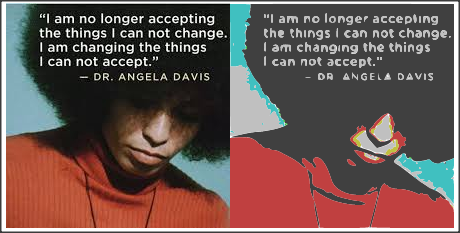
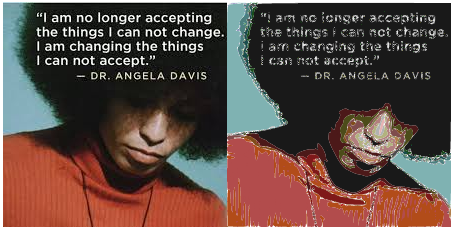
v.1.0.0

diff --git a/build/img2svg.min.js b/build/img2svg.min.js
@@ -2,9 +2,9 @@
 *
 *   img2svg.js
 *   @version: 1.0.0
-*   @built on 2023-09-01 08:33:59
+*   @built on 2023-09-01 09:31:47
 *
 *   Vectorize image data based on potrace algorithm with color
 *   https://github.com/foo123/img2svg.js
 *
-**/!function(t,r,n){"use strict";"object"==typeof module&&module.exports?(module.$deps=module.$deps||{})&&(module.exports=module.$deps[r]=n.call(t)):"function"==typeof define&&define.amd&&"function"==typeof require&&"function"==typeof require.specified&&require.specified(r)?define(r,["module"],function(r){return n.moduleUri=r.uri,n.call(t)}):r in t||(t[r]=n.call(t)||1)&&"function"==typeof define&&define.amd&&define(function(){return t[r]})}("undefined"!=typeof self?self:this,"img2svg",function(){"use strict";var q=Math,Y="undefined"!=typeof Uint8Array?Uint8Array:Array;"undefined"==typeof Float32Array&&Array;function r(r,t){var n,e,a,o,i,y,x,u,f,c,l,s,h,p=k(null==(t=t||{}).depth?2:t.depth,1,256),d=k(null==t.depthR?p:t.depthR,1,256),v=k(null==t.depthG?p:t.depthG,1,256),w=k(null==t.depthB?p:t.depthB,1,256),m=(k(null==t.depthHue?12:t.depthHue,1,360),r.width),g=r.height,A=r.data,b=m*g,O=A.length,F="",R=q.floor(256/d),C=q.floor(256/v),U=q.floor(256/w),z=q.floor(R/2),E=q.floor(C/2),X=q.floor(U/2);if(t.grayscale)for(i=e=0;e<v;++e,i+=C){for(h=new Y(b),l=c=s=0;c<O;c+=4,++l)0<A[c+3]&&i<=(u=A[c+1])&&u<i+C?(++s,h[l]=255):h[l]=0;0<s&&(t.color=V(i+E,i+E,i+E),t.partial=!0,F+=j.process(h,m,g,t)),h=null}else for(o=n=0;n<w;++n,o+=U)for(i=e=0;e<v;++e,i+=C)for(y=a=0;a<d;++a,y+=R){for(h=new Y(b),l=c=s=0;c<O;c+=4,++l)0<A[c+3]&&(x=A[c],u=A[c+1],f=A[c+2],y<=x)&&x<y+R&&i<=u&&u<i+C&&o<=f&&f<o+U?(++s,h[l]=255):h[l]=0;0<s&&(t.color=V(y+z,i+E,o+X),t.partial=!0,F+=j.process(h,m,g,t)),h=null}return'<svg version="1.1" xmlns="http://www.w3.org/2000/svg" width="'+m+'" height="'+g+'" viewBox="0 0 '+m+" "+g+'">'+F+"</svg>"}function k(r,t,n){return q.min(q.max(r,t),n)}function V(r,t,n){r=k(q.round(r),0,255).toString(16),t=k(q.round(t),0,255).toString(16),n=k(q.round(n),0,255).toString(16);return"#"+(r.length<2?"0":"")+r+(t.length<2?"0":"")+t+(n.length<2?"0":"")+n}r.VERSION="1.0.0";t={VERSION:"1.16"},e="prototype",U=Math,i="undefined"!=typeof Uint8Array?Uint8Array:Array,w={turnpolicy:"minority",turdsize:2,optcurve:!0,alphamax:1,opttolerance:.2},t.defaultOptions=function(){return m({},w)},t.process=function(r,t,n,e){m(e,w);for(var r=function(r,t){var n,e=r.copy(),a=new z(0,0),o=[];for(;a=function(r,t){var n=r.toIndex(t);for(;n<r.size&&0===r.data[n];)++n;return n<r.size&&r.index(n)}(e,a);)n=function(r,t,n,e){var a,o,i,y,x=new A,u=n.x,f=n.y,c=0,l=1;x.sign=r.at(n.x,n.y)?"+":"-";for(;;){if(x.pt.push(new z(u,f)),u>x.maxX&&(x.maxX=u),u<x.minX&&(x.minX=u),f>x.maxY&&(x.maxY=f),f<x.minY&&(x.minY=f),++x.len,u+=c,f+=l,x.area-=u*l,u===n.x&&f===n.y)break;o=t.at(u+(c-l-1)/2,f+(l+c-1)/2),i=t.at(u+(c+l-1)/2,f+(l-c-1)/2),o&&!i?(y="majority"===e.turnpolicy||"minority"===e.turnpolicy?function(r,t,n){var e,a,o;for(e=2;e<5;++e){for(o=0,a=1-e;a<=e-1;++a)o=(o=(o=(o+=r.at(t+a,n+e-1)?1:-1)+(r.at(t+e-1,n+a-1)?1:-1))+(r.at(t+a-1,n-e)?1:-1))+(r.at(t-e,n+a)?1:-1);if(0<o)return 1;if(o<0)return 0}return 0}(t,u,f):0,l="right"===e.turnpolicy||"black"===e.turnpolicy&&"+"===x.sign||"white"===e.turnpolicy&&"-"===x.sign||"majority"===e.turnpolicy&&y||"minority"===e.turnpolicy&&!y?(a=c,c=-l,a):(a=c,c=l,-a)):o?(a=c,c=-l,l=a):i||(a=c,c=l,l=-a)}return x}(r,e,a,t),function(r,t){var n,e,a,o,i,y,x=t.pt[0].y,u=t.len;for(y=1;y<u;++y)if(n=t.pt[y].x,(e=t.pt[y].y)!==x){for(o=x<e?x:e,a=t.maxX,i=n;i<a;++i)r.flip(i,o);x=e}}(e,n),n.area>t.turdsize&&o.push(n);return e=null,o}(new g(t,n,r),e),a=r,o=e,i=0,y=a.length;i<y;++i){var x=a[i];!function(r){r.x0=r.pt[0].x,r.y0=r.pt[0].y,r.sums=[];var t,n,e,a=r.sums;for(a.push(new b(0,0,0,0,0)),t=0;t<r.len;++t)n=r.pt[t].x-r.x0,e=r.pt[t].y-r.y0,a.push(new b(a[t].x+n,a[t].y+e,a[t].xy+n*e,a[t].x2+n*n,a[t].y2+e*e))}(x),!function(r){var t,n,e,a,o,i,y,x,u,f=r.len,c=r.pt,l=new Array(f),s=new Array(f),h=new Array(4),p=[new z,new z],d=new z,v=new z,w=new z,m=0;for(r.lon=new Array(f),e=f-1;0<=e;--e)c[e].x!=c[m].x&&c[e].y!=c[m].y&&(m=e+1),s[e]=m;for(e=f-1;0<=e;--e){for(h[0]=h[1]=h[2]=h[3]=0,t=(3+3*(c[S(e+1,f)].x-c[e].x)+(c[S(e+1,f)].y-c[e].y))/2,++h[t],p[0].x=0,p[0].y=0,p[1].x=0,p[1].y=0,m=s[e],o=e;;){if(n=0,t=(3+3*T(c[m].x-c[o].x)+T(c[m].y-c[o].y))/2,++h[t],h[0]&&h[1]&&h[2]&&h[3]){l[e]=o,n=1;break}if(d.x=c[m].x-c[e].x,d.y=c[m].y-c[e].y,F(p[0],d)<0||0<F(p[1],d))break;if(U.abs(d.x)<=1&&U.abs(d.y)<=1||(v.x=d.x+(0<=d.y&&(0<d.y||d.x<0)?1:-1),v.y=d.y+(d.x<=0&&(d.x<0||d.y<0)?1:-1),0<=F(p[0],v)&&(p[0].x=v.x,p[0].y=v.y),v.x=d.x+(d.y<=0&&(d.y<0||d.x<0)?1:-1),v.y=d.y+(0<=d.x&&(0<d.x||d.y<0)?1:-1),F(p[1],v)<=0&&(p[1].x=v.x,p[1].y=v.y)),!R(m=s[o=m],e,o))break}0===n&&(w.x=T(c[m].x-c[o].x),w.y=T(c[m].y-c[o].y),d.x=c[o].x-c[e].x,d.y=c[o].y-c[e].y,i=F(p[0],d),y=F(p[0],w),x=F(p[1],d),u=F(p[1],w),a=1e7,y<0&&(a=U.floor(i/-y)),0<u&&(a=U.min(a,U.floor(-x/u))),l[e]=S(o+a,f))}for(a=l[f-1],r.lon[f-1]=a,e=f-2;0<=e;--e)R(e+1,l[e],a)&&(a=l[e]),r.lon[e]=a;for(e=f-1;R(S(e+1,f),a,r.lon[e]);--e)r.lon[e]=a}(x),!function(r){var t,n,e,a,o,i,y,x=r.len,u=new Array(x+1),f=new Array(x+1),c=new Array(x),l=new Array(x+1),s=new Array(x+1),h=new Array(x+1);for(t=0;t<x;++t)(y=S(r.lon[S(t-1,x)]-1,x))==t&&(y=S(t+1,x)),c[t]=y<t?x:y;for(n=1,t=0;t<x;++t)for(;n<=c[t];)l[n]=t,n++;for(n=t=0;t<x;++n)s[n]=t,t=c[t];for(s[n]=x,t=x,n=e=n;0<n;--n)h[n]=t,t=l[t];for(h[0]=0,u[0]=0,n=1;n<=e;++n)for(t=h[n];t<=s[n];++t){for(i=-1,a=s[n-1];a>=l[t];--a)o=function(r,t,n){var e,a,o,i,y,x,u=r.len,f=r.pt,r=r.sums,c=0;u<=n&&(n-=u,c=1);c=0===c?(e=r[n+1].x-r[t].x,a=r[n+1].y-r[t].y,i=r[n+1].x2-r[t].x2,o=r[n+1].xy-r[t].xy,y=r[n+1].y2-r[t].y2,n+1-t):(e=r[n+1].x-r[t].x+r[u].x,a=r[n+1].y-r[t].y+r[u].y,i=r[n+1].x2-r[t].x2+r[u].x2,o=r[n+1].xy-r[t].xy+r[u].xy,y=r[n+1].y2-r[t].y2+r[u].y2,n+1-t+u);return r=(f[t].x+f[n].x)/2-f[0].x,u=(f[t].y+f[n].y)/2-f[0].y,x=f[n].x-f[t].x,n=-(f[n].y-f[t].y),f=n*n*((i-2*e*r)/c+r*r)+2*n*x*((o-e*u-a*r)/c+r*u)+x*x*((y-2*a*u)/c+u*u),U.sqrt(f)}(r,a,t)+u[a],(i<0||o<i)&&(f[t]=a,i=o);u[t]=i}for(r.m=e,r.po=new Array(e),t=x,n=e-1;0<t;--n)t=f[t],r.po[n]=t}(x),!function(r){var t,n,e,a,o,i,y,x,u,f,c,l,s,h,p,d=r.m,v=r.po,w=r.len,m=r.pt,g=r.x0,A=r.y0,b=new Array(d),O=new Array(d),F=new Array(d),R=new Array(3),C=new z;for(r.curve=new E(d),n=0;n<d;++n)e=v[S(n+1,d)],e=S(e-v[n],w)+v[n],b[n]=new z,O[n]=new z,!function(r,t,n,e,a){var o,i,y,x,u,f,c=r.len,r=r.sums,l=0;for(;c<=n;)n-=c,l+=1;for(;c<=t;)t-=c,--l;for(;n<0;)n+=c,--l;for(;t<0;)t+=c,l+=1;u=r[n+1].x-r[t].x+l*r[c].x,o=r[n+1].y-r[t].y+l*r[c].y,x=r[n+1].x2-r[t].x2+l*r[c].x2,y=r[n+1].xy-r[t].xy+l*r[c].xy,r=r[n+1].y2-r[t].y2+l*r[c].y2,i=n+1-t+l*c,e.x=u/i,e.y=o/i,e=(y-u*o/i)/i,u=((y=(x-u*u/i)/i)+(x=(r-o*o/i)/i)+U.sqrt((y-x)*(y-x)+4*e*e))/2,y-=u,x-=u,U.abs(y)>=U.abs(x)?0!==(f=G(y,e))&&(a.x=-e/f,a.y=y/f):0!==(f=G(x,e))&&(a.x=-x/f,a.y=e/f);0===f&&(a.x=a.y=0)}(r,v[n],e,b[n],O[n]);for(n=0;n<d;++n)if(F[n]=new X,0===(t=O[n].x*O[n].x+O[n].y*O[n].y))for(e=0;e<3;++e)for(a=0;a<3;++a)F[n].data[3*e+a]=0;else for(R[0]=O[n].y,R[1]=-O[n].x,R[2]=-R[1]*b[n].y-R[0]*b[n].x,o=0;o<3;++o)for(a=0;a<3;++a)F[n].data[3*o+a]=R[o]*R[a]/t;for(n=0;n<d;++n){for(i=new X,y=new z,C.x=m[v[n]].x-g,C.y=m[v[n]].y-A,e=S(n-1,d),o=0;o<3;++o)for(a=0;a<3;++a)i.data[3*o+a]=F[e].at(o,a)+F[n].at(o,a);for(;;){if(0!=(f=i.at(0,0)*i.at(1,1)-i.at(0,1)*i.at(1,0))){y.x=(-i.at(0,2)*i.at(1,1)+i.at(1,2)*i.at(0,1))/f,y.y=(i.at(0,2)*i.at(1,0)-i.at(1,2)*i.at(0,0))/f;break}for(i.at(0,0)>i.at(1,1)?(R[0]=-i.at(0,1),R[1]=i.at(0,0)):i.at(1,1)?(R[0]=-i.at(1,1),R[1]=i.at(1,0)):(R[0]=1,R[1]=0),t=R[0]*R[0]+R[1]*R[1],R[2]=-R[1]*C.y-R[0]*C.x,o=0;o<3;++o)for(a=0;a<3;++a)i.data[3*o+a]+=R[o]*R[a]/t}if(x=U.abs(y.x-C.x),u=U.abs(y.y-C.y),x<=.5&&u<=.5)r.curve.vertex[n]=new z(y.x+g,y.y+A);else{if(c=B(i,C),s=C.x,h=C.y,0!==i.at(0,0))for(p=0;p<2;++p)y.y=C.y-.5+p,y.x=-(i.at(0,1)*y.y+i.at(0,2))/i.at(0,0),x=U.abs(y.x-C.x),l=B(i,y),x<=.5&&l<c&&(c=l,s=y.x,h=y.y);if(0!==i.at(1,1))for(p=0;p<2;++p)y.x=C.x-.5+p,y.y=-(i.at(1,0)*y.x+i.at(1,2))/i.at(1,1),u=U.abs(y.y-C.y),l=B(i,y),u<=.5&&l<c&&(c=l,s=y.x,h=y.y);for(o=0;o<2;++o)for(a=0;a<2;++a)y.x=C.x-.5+o,y.y=C.y-.5+a,(l=B(i,y))<c&&(c=l,s=y.x,h=y.y);r.curve.vertex[n]=new z(s+g,h+A)}}}(x),"-"===x.sign&&!function(r){var t,n,e,r=r.curve,a=r.n,o=r.vertex;for(t=0,n=a-1;t<n;++t,--n)e=o[t],o[t]=o[n],o[n]=e}(x),!function(r,t){var n,e,a,o,i,y,x=r.curve.n,u=r.curve;for(n=0;n<x;++n)e=S(n+1,x),i=S(n+2,x),y=I(.5,u.vertex[i],u.vertex[e]),0!==(o=function(r,t){var n=function(r,t){return new z(-T(t.y-r.y),T(t.x-r.x))}(r,t);return n.y*(t.x-r.x)-n.x*(t.y-r.y)}(u.vertex[n],u.vertex[i]))?(o=N(u.vertex[n],u.vertex[e],u.vertex[i])/o,o=U.abs(o),a=1<o?1-1/o:0,a/=.75):a=4/3,(u.alpha0[e]=a)>=t.alphamax?(u.tag[e]="CORNER",u.c[3*e+1]=u.vertex[e]):(a<.55?a=.55:1<a&&(a=1),o=I(.5+.5*a,u.vertex[n],u.vertex[e]),i=I(.5+.5*a,u.vertex[i],u.vertex[e]),u.tag[e]="CURVETO",u.c[3*e+0]=o,u.c[3*e+1]=i),u.c[3*e+2]=y,u.alpha[e]=a,u.beta[e]=.5;u.alphacurve=1}(x,o),o.optcurve&&!function(r,t){var n,e,a,o,i,y,x,u,f,c,l=r.curve,s=l.n,h=l.vertex,p=new Array(s+1),d=new Array(s+1),v=new Array(s+1),w=new Array(s+1),m=new O,g=new Array(s),A=new Array(s+1);for(e=0;e<s;++e)"CURVETO"===l.tag[e]?g[e]=T(N(h[S(e-1,s)],h[e],h[S(e+1,s)])):g[e]=0;for(A[y=0]=0,o=l.vertex[0],e=0;e<s;++e)i=S(e+1,s),"CURVETO"===l.tag[i]&&(x=l.alpha[i],y=(y+=.3*x*(4-x)*N(l.c[3*e+2],h[i],l.c[3*i+2])/2)+N(o,l.c[3*e+2],l.c[3*i+2])/2),A[e+1]=y;for(p[0]=-1,d[0]=0,v[0]=0,a=1;a<=s;++a)for(p[a]=a-1,d[a]=d[a-1],v[a]=v[a-1]+1,e=a-2;0<=e&&!function(r,t,n,e,a,o,i){var y,x,u,f,c,l,s,h,p,d,v,w,m,g,A,b,O,F=r.curve.n,R=r.curve,C=R.vertex;if(t===n)return 1;if(c=S((y=t)+1,F),x=S(y+1,F),0===(f=o[x]))return 1;for(l=H(C[t],C[c]),y=x;y!=n;y=x){if(x=S(y+1,F),u=S(y+2,F),o[x]!==f)return 1;if(T(M(C[t],C[c],C[x],C[u]))!==f)return 1;if(function(r,t,n,e){var a;return a=t.x-r.x,t=t.y-r.y,r=e.x-n.x,e=e.y-n.y,a*r+t*e}(C[t],C[c],C[x],C[u])<l*H(C[x],C[u])*-.999847695156)return 1}p=R.c[3*S(t,F)+2].copy(),d=C[S(t+1,F)].copy(),v=C[S(n,F)].copy(),w=R.c[3*S(n,F)+2].copy(),r=i[n]-i[t],r-=N(C[0],R.c[3*t+2],R.c[3*n+2])/2,n<=t&&(r+=i[F]);if(i=N(p,d,v),g=N(p,d,w),A=N(p,v,w),b=i+A-g,g===i)return 1;if(i=g/(g-i),0==(g=g*(O=A/(A-b))/2))return 1;for(A=r/g,b=2-U.sqrt(4-A/.3),e.c[0]=I(O*b,p,d),e.c[1]=I(i*b,w,v),e.alpha=b,e.t=O,e.s=i,d=e.c[0].copy(),v=e.c[1].copy(),e.pen=0,y=S(t+1,F);y!=n;y=x){if(x=S(y+1,F),(O=L(p,d,v,w,C[y],C[x]))<-.5)return 1;if(m=P(O,p,d,v,w),0===(l=H(C[y],C[x])))return 1;if(s=N(C[y],C[x],m)/l,U.abs(s)>a)return 1;if($(C[y],C[x],m)<0||$(C[x],C[y],m)<0)return 1;e.pen+=s*s}for(y=t;y!=n;y=x){if(x=S(y+1,F),(O=L(p,d,v,w,R.c[3*y+2],R.c[3*x+2]))<-.5)return 1;if(m=P(O,p,d,v,w),0===(l=H(R.c[3*y+2],R.c[3*x+2])))return 1;if(s=N(R.c[3*y+2],R.c[3*x+2],m)/l,h=N(R.c[3*y+2],R.c[3*x+2],C[x])/l,(h*=.75*R.alpha[x])<0&&(s=-s,h=-h),s<h-a)return 1;s<h&&(e.pen+=(s-h)*(s-h))}return 0}(r,e,S(a,s),m,t.opttolerance,g,A);--e)(v[a]>v[e]+1||v[a]==v[e]+1&&d[a]>d[e]+m.pen)&&(p[a]=e,d[a]=d[e]+m.pen,v[a]=v[e]+1,w[a]=m,m=new O);for(n=v[s],u=new E(n),f=new Array(n),c=new Array(n),a=s,e=n-1;0<=e;--e)p[a]===a-1?(u.tag[e]=l.tag[S(a,s)],u.c[3*e+0]=l.c[3*S(a,s)+0],u.c[3*e+1]=l.c[3*S(a,s)+1],u.c[3*e+2]=l.c[3*S(a,s)+2],u.vertex[e]=l.vertex[S(a,s)],u.alpha[e]=l.alpha[S(a,s)],u.alpha0[e]=l.alpha0[S(a,s)],u.beta[e]=l.beta[S(a,s)],f[e]=c[e]=1):(u.tag[e]="CURVETO",u.c[3*e+0]=w[a].c[0],u.c[3*e+1]=w[a].c[1],u.c[3*e+2]=l.c[3*S(a,s)+2],u.vertex[e]=I(w[a].s,l.c[3*S(a,s)+2],h[S(a,s)]),u.alpha[e]=w[a].alpha,u.alpha0[e]=w[a].alpha,f[e]=w[a].s,c[e]=w[a].t),a=p[a];for(e=0;e<n;++e)i=S(e+1,n),u.beta[e]=f[e]/(f[e]+c[i]);u.alphacurve=1,r.curve=u}(x,o)}var u,f,c,l,s=r,h=1,r=e.color||"#000",p=e.outline,e=!e.partial,t=t*h,n=n*h,d=s.length,v=e?'<svg version="1.1" xmlns="http://www.w3.org/2000/svg" width="'+t+'" height="'+n+'" viewBox="0 0 '+t+" "+n+'">':"";for(l=p?(f=r||"#000",c="none",""):(f="none",c=r||"#000",' fill-rule="evenodd"'),u=0;u<d;++u)v+='<path d="'+function(r,t){var n,e=r.n,a="M"+(r.c[3*(e-1)+2].x*t).toFixed(3)+" "+(r.c[3*(e-1)+2].y*t).toFixed(3)+" ";for(n=0;n<e;++n)"CURVETO"===r.tag[n]?a+=function(r,t,n){return"C "+(r.c[3*t+0].x*n).toFixed(3)+" "+(r.c[3*t+0].y*n).toFixed(3)+","+(r.c[3*t+1].x*n).toFixed(3)+" "+(r.c[3*t+1].y*n).toFixed(3)+","+(r.c[3*t+2].x*n).toFixed(3)+" "+(r.c[3*t+2].y*n).toFixed(3)+" "}(r,n,t):"CORNER"===r.tag[n]&&(a+=function(r,t,n){return"L "+(r.c[3*t+1].x*n).toFixed(3)+" "+(r.c[3*t+1].y*n).toFixed(3)+" "+(r.c[3*t+2].x*n).toFixed(3)+" "+(r.c[3*t+2].y*n).toFixed(3)+" "}(r,n,t));return a}(s[u].curve,h)+'" stroke="'+f+'" fill="'+c+'"'+l+"/>";return e&&(v+="</svg>"),v},z[e]={constructor:z,x:0,y:0,copy:function(){return new z(this.x,this.y)}},g[e]={constructor:g,width:0,height:0,size:0,data:null,at:function(r,t){return r instanceof z?(t=r.y,r=r.x):1===arguments.length&&(t=U.floor(r/this.width),r%=this.width),0<=r&&r<this.width&&0<=t&&t<this.height&&0<this.data[this.width*t+r]},index:function(r){return new z(r%this.width,U.floor(r/this.width))},toIndex:function(r,t){return r instanceof z&&(t=r.y,r=r.x),this.width*t+r},flip:function(r,t){r instanceof z?(t=r.y,r=r.x):1===arguments.length&&(t=U.floor(r/this.width),r%=this.width),this.data[this.width*t+r]=this.at(r,t)?0:1},copy:function(){for(var r=new g(this.width,this.height),t=0,n=this.size;t<n;++t)r.data[t]=this.data[t];return r}},A[e]={constructor:A,area:0,len:0,sign:"",lon:null,curve:null,pt:null,minX:1e6,minY:1e6,maxX:-1,maxY:-1},E[e]={constructor:E,n:0,tag:null,c:null,alphaCurve:0,vertex:null,alpha:null,alpha0:null,beta:null},X[e]={constructor:X,data:null,at:function(r,t){return this.data[3*r+t]}},b[e]={constructor:b,x:0,y:0,xy:0,x2:0,y2:0},O[e]={constructor:O,pen:0,c:null,t:0,s:0,alpha:0};var t,e,U,i,w,j=t;function m(r,t){for(var n in t)Object[e].hasOwnProperty.call(t,n)&&!Object[e].hasOwnProperty.call(r,n)&&(r[n]=t[n]);return r}function z(r,t){this.x=r||0,this.y=t||0}function g(r,t,n){var e=this;if(e.width=r,e.height=t,e.size=r*t,e.data=n||new i(e.size),n)for(var a=0,o=e.size;a<o;++a)e.data[a]=0<e.data[a]?1:0}function A(){var r=this;r.area=0,r.len=0,r.curve={},r.pt=[],r.minX=1e6,r.minY=1e6,r.maxX=-1,r.maxY=-1}function E(r){var t=this;t.n=r,t.tag=new Array(r),t.c=new Array(3*r),t.alphaCurve=0,t.vertex=new Array(r),t.alpha=new Array(r),t.alpha0=new Array(r),t.beta=new Array(r)}function X(){this.data=[0,0,0,0,0,0,0,0,0]}function b(r,t,n,e,a){var o=this;o.x=r,o.y=t,o.xy=n,o.x2=e,o.y2=a}function O(){var r=this;r.pen=0,r.c=[new z,new z],r.t=0,r.s=0,r.alpha=0}function S(r,t){return t<=r?r%t:0<=r?r:t-1-(-1-r)%t}function F(r,t){return r.x*t.y-r.y*t.x}function R(r,t,n){return r<=n?r<=t&&t<n:r<=t||t<n}function T(r){return 0<r?1:r<0?-1:0}function B(r,t){for(var n,e=[t.x,t.y,1],a=0,o=0;o<3;++o)for(n=0;n<3;++n)a+=e[o]*r.at(o,n)*e[n];return a}function I(r,t,n){return new z(t.x+r*(n.x-t.x),t.y+r*(n.y-t.y))}function N(r,t,n){var e=t.x-r.x,t=t.y-r.y,a=n.x-r.x;return e*(n.y-r.y)-a*t}function M(r,t,n,e){var a=t.x-r.x,t=t.y-r.y,r=e.x-n.x;return a*(e.y-n.y)-r*t}function $(r,t,n){var e=t.x-r.x,t=t.y-r.y;return e*(n.x-r.x)+t*(n.y-r.y)}function G(r,t){r=U.abs(r),t=U.abs(t);var n=U.max(r,t);return 0===n?0:n*U.sqrt((r/=n)*r+(t/=n)*t)}function H(r,t){return G(r.x-t.x,r.y-t.y)}function P(r,t,n,e,a){var o=1-r,i=r*r,y=o*o,x=y*o,u=i*r,y=3*y*r,r=3*i*o;return new z(x*t.x+y*n.x+r*e.x+u*a.x,x*t.y+y*n.y+r*e.y+u*a.y)}function L(r,t,n,e,a,o){var r=M(r,t,a,o),t=M(t,n,a,o),n=r-2*t+M(n,e,a,o),e=-2*r+2*t,a=e*e-4*n*r;return 0===n||a<0?-1:(t=(-e-(o=U.sqrt(a)))/(2*n),0<=(r=(-e+o)/(2*n))&&r<=1?r:0<=t&&t<=1?t:-1)}return r.potrace=j,r});
+**/!function(t,r,n){"use strict";"object"==typeof module&&module.exports?(module.$deps=module.$deps||{})&&(module.exports=module.$deps[r]=n.call(t)):"function"==typeof define&&define.amd&&"function"==typeof require&&"function"==typeof require.specified&&require.specified(r)?define(r,["module"],function(r){return n.moduleUri=r.uri,n.call(t)}):r in t||(t[r]=n.call(t)||1)&&"function"==typeof define&&define.amd&&define(function(){return t[r]})}("undefined"!=typeof self?self:this,"img2svg",function(){"use strict";var V=Math,T="undefined"!=typeof Uint8Array?Uint8Array:Array;"undefined"==typeof Float32Array&&Array;function r(r,t){var n,e,a,o,i,y,x,u,f,c,l,s,p,h,d,w,v,g,m,A,b,O,F,R,C=B(null==(t=t||{}).depth?2:t.depth,1,256),S=B(null==t.depthR?C:t.depthR,1,256),U=B(null==t.depthG?C:t.depthG,1,256),z=B(null==t.depthB?C:t.depthB,1,256),E=r.width,X=r.height,k=r.data,q=E*X,Y=k.length,j="";if(256===C){for(n={},b=A=0;A<Y;A+=4,++b)0<k[A+3]&&(w=k[A],v=k[A+1],g=k[A+2],m=k[A+3],n[e=String(w)+","+String(v)+","+String(g)+","+String(m)]?n[e].push(b):n[e]=[b]);for(e in n)if(Object.prototype.hasOwnProperty.call(n,e)&&0<(a=n[e]).length){for(R=new T(q),A=0,O=a.length;A<O;++A)R[a[A]]=255;t.color="rgb("+e.split(",").slice(0,3).join(",")+")",t.opacity=String((+e.split(",").pop()/255).toFixed(2)),t.partial=!0,j+=N.process(R,E,X,t),R=null}n=null}else if(t.grayscale)for(u=V.floor(256/U),l=V.floor(u/2),h=i=0;i<U;++i,h+=u){for(R=new T(q),b=A=F=0;A<Y;A+=4,++b)0<k[A+3]&&h<=(v=k[A+1])&&v<h+u?(++F,R[b]=255):R[b]=0;0<F&&(t.color=I(h+l,h+l,h+l),t.partial=!0,j+=N.process(R,E,X,t)),R=null}else for(x=V.floor(256/S),u=V.floor(256/U),f=V.floor(256/z),c=V.floor(x/2),l=V.floor(u/2),s=V.floor(f/2),p=o=0;o<z;++o,p+=f)for(h=i=0;i<U;++i,h+=u)for(d=y=0;y<S;++y,d+=x){for(R=new T(q),b=A=F=0;A<Y;A+=4,++b)0<k[A+3]&&(w=k[A],v=k[A+1],g=k[A+2],d<=w)&&w<d+x&&h<=v&&v<h+u&&p<=g&&g<p+f?(++F,R[b]=255):R[b]=0;0<F&&(t.color=I(d+c,h+l,p+s),t.partial=!0,j+=N.process(R,E,X,t)),R=null}return'<svg version="1.1" xmlns="http://www.w3.org/2000/svg" width="'+E+'" height="'+X+'" viewBox="0 0 '+E+" "+X+'">'+j+"</svg>"}function B(r,t,n){return V.min(V.max(r,t),n)}function I(r,t,n){r=B(V.round(r),0,255).toString(16),t=B(V.round(t),0,255).toString(16),n=B(V.round(n),0,255).toString(16);return"#"+(r.length<2?"0":"")+r+(t.length<2?"0":"")+t+(n.length<2?"0":"")+n}r.VERSION="1.0.0";t={VERSION:"1.16"},e="prototype",S=Math,i="undefined"!=typeof Uint8Array?Uint8Array:Array,m={turnpolicy:"minority",turdsize:2,optcurve:!0,alphamax:1,opttolerance:.2},t.defaultOptions=function(){return A({},m)},t.process=function(r,t,n,e){A(e,m);for(var r=function(r,t){var n,e=r.copy(),a=new U(0,0),o=[];for(;a=function(r,t){var n=r.toIndex(t);for(;n<r.size&&0===r.data[n];)++n;return n<r.size&&r.index(n)}(e,a);)n=function(r,t,n,e){var a,o,i,y,x=new O,u=n.x,f=n.y,c=0,l=1;x.sign=r.at(n.x,n.y)?"+":"-";for(;;){if(x.pt.push(new U(u,f)),u>x.maxX&&(x.maxX=u),u<x.minX&&(x.minX=u),f>x.maxY&&(x.maxY=f),f<x.minY&&(x.minY=f),++x.len,u+=c,f+=l,x.area-=u*l,u===n.x&&f===n.y)break;o=t.at(u+(c-l-1)/2,f+(l+c-1)/2),i=t.at(u+(c+l-1)/2,f+(l-c-1)/2),o&&!i?(y="majority"===e.turnpolicy||"minority"===e.turnpolicy?function(r,t,n){var e,a,o;for(e=2;e<5;++e){for(o=0,a=1-e;a<=e-1;++a)o=(o=(o=(o+=r.at(t+a,n+e-1)?1:-1)+(r.at(t+e-1,n+a-1)?1:-1))+(r.at(t+a-1,n-e)?1:-1))+(r.at(t-e,n+a)?1:-1);if(0<o)return 1;if(o<0)return 0}return 0}(t,u,f):0,l="right"===e.turnpolicy||"black"===e.turnpolicy&&"+"===x.sign||"white"===e.turnpolicy&&"-"===x.sign||"majority"===e.turnpolicy&&y||"minority"===e.turnpolicy&&!y?(a=c,c=-l,a):(a=c,c=l,-a)):o?(a=c,c=-l,l=a):i||(a=c,c=l,l=-a)}return x}(r,e,a,t),function(r,t){var n,e,a,o,i,y,x=t.pt[0].y,u=t.len;for(y=1;y<u;++y)if(n=t.pt[y].x,(e=t.pt[y].y)!==x){for(o=x<e?x:e,a=t.maxX,i=n;i<a;++i)r.flip(i,o);x=e}}(e,n),n.area>t.turdsize&&o.push(n);return e=null,o}(new b(t,n,r),e),a=r,o=e,i=0,y=a.length;i<y;++i){var x=a[i];!function(r){r.x0=r.pt[0].x,r.y0=r.pt[0].y,r.sums=[];var t,n,e,a=r.sums;for(a.push(new F(0,0,0,0,0)),t=0;t<r.len;++t)n=r.pt[t].x-r.x0,e=r.pt[t].y-r.y0,a.push(new F(a[t].x+n,a[t].y+e,a[t].xy+n*e,a[t].x2+n*n,a[t].y2+e*e))}(x),!function(r){var t,n,e,a,o,i,y,x,u,f=r.len,c=r.pt,l=new Array(f),s=new Array(f),p=new Array(4),h=[new U,new U],d=new U,w=new U,v=new U,g=0;for(r.lon=new Array(f),e=f-1;0<=e;--e)c[e].x!=c[g].x&&c[e].y!=c[g].y&&(g=e+1),s[e]=g;for(e=f-1;0<=e;--e){for(p[0]=p[1]=p[2]=p[3]=0,t=(3+3*(c[X(e+1,f)].x-c[e].x)+(c[X(e+1,f)].y-c[e].y))/2,++p[t],h[0].x=0,h[0].y=0,h[1].x=0,h[1].y=0,g=s[e],o=e;;){if(n=0,t=(3+3*q(c[g].x-c[o].x)+q(c[g].y-c[o].y))/2,++p[t],p[0]&&p[1]&&p[2]&&p[3]){l[e]=o,n=1;break}if(d.x=c[g].x-c[e].x,d.y=c[g].y-c[e].y,C(h[0],d)<0||0<C(h[1],d))break;if(S.abs(d.x)<=1&&S.abs(d.y)<=1||(w.x=d.x+(0<=d.y&&(0<d.y||d.x<0)?1:-1),w.y=d.y+(d.x<=0&&(d.x<0||d.y<0)?1:-1),0<=C(h[0],w)&&(h[0].x=w.x,h[0].y=w.y),w.x=d.x+(d.y<=0&&(d.y<0||d.x<0)?1:-1),w.y=d.y+(0<=d.x&&(0<d.x||d.y<0)?1:-1),C(h[1],w)<=0&&(h[1].x=w.x,h[1].y=w.y)),!k(g=s[o=g],e,o))break}0===n&&(v.x=q(c[g].x-c[o].x),v.y=q(c[g].y-c[o].y),d.x=c[o].x-c[e].x,d.y=c[o].y-c[e].y,i=C(h[0],d),y=C(h[0],v),x=C(h[1],d),u=C(h[1],v),a=1e7,y<0&&(a=S.floor(i/-y)),0<u&&(a=S.min(a,S.floor(-x/u))),l[e]=X(o+a,f))}for(a=l[f-1],r.lon[f-1]=a,e=f-2;0<=e;--e)k(e+1,l[e],a)&&(a=l[e]),r.lon[e]=a;for(e=f-1;k(X(e+1,f),a,r.lon[e]);--e)r.lon[e]=a}(x),!function(r){var t,n,e,a,o,i,y,x=r.len,u=new Array(x+1),f=new Array(x+1),c=new Array(x),l=new Array(x+1),s=new Array(x+1),p=new Array(x+1);for(t=0;t<x;++t)(y=X(r.lon[X(t-1,x)]-1,x))==t&&(y=X(t+1,x)),c[t]=y<t?x:y;for(n=1,t=0;t<x;++t)for(;n<=c[t];)l[n]=t,n++;for(n=t=0;t<x;++n)s[n]=t,t=c[t];for(s[n]=x,t=x,n=e=n;0<n;--n)p[n]=t,t=l[t];for(p[0]=0,u[0]=0,n=1;n<=e;++n)for(t=p[n];t<=s[n];++t){for(i=-1,a=s[n-1];a>=l[t];--a)o=function(r,t,n){var e,a,o,i,y,x,u=r.len,f=r.pt,r=r.sums,c=0;u<=n&&(n-=u,c=1);c=0===c?(e=r[n+1].x-r[t].x,a=r[n+1].y-r[t].y,i=r[n+1].x2-r[t].x2,o=r[n+1].xy-r[t].xy,y=r[n+1].y2-r[t].y2,n+1-t):(e=r[n+1].x-r[t].x+r[u].x,a=r[n+1].y-r[t].y+r[u].y,i=r[n+1].x2-r[t].x2+r[u].x2,o=r[n+1].xy-r[t].xy+r[u].xy,y=r[n+1].y2-r[t].y2+r[u].y2,n+1-t+u);return r=(f[t].x+f[n].x)/2-f[0].x,u=(f[t].y+f[n].y)/2-f[0].y,x=f[n].x-f[t].x,n=-(f[n].y-f[t].y),f=n*n*((i-2*e*r)/c+r*r)+2*n*x*((o-e*u-a*r)/c+r*u)+x*x*((y-2*a*u)/c+u*u),S.sqrt(f)}(r,a,t)+u[a],(i<0||o<i)&&(f[t]=a,i=o);u[t]=i}for(r.m=e,r.po=new Array(e),t=x,n=e-1;0<t;--n)t=f[t],r.po[n]=t}(x),!function(r){var t,n,e,a,o,i,y,x,u,f,c,l,s,p,h,d=r.m,w=r.po,v=r.len,g=r.pt,m=r.x0,A=r.y0,b=new Array(d),O=new Array(d),F=new Array(d),R=new Array(3),C=new U;for(r.curve=new z(d),n=0;n<d;++n)e=w[X(n+1,d)],e=X(e-w[n],v)+w[n],b[n]=new U,O[n]=new U,!function(r,t,n,e,a){var o,i,y,x,u,f,c=r.len,r=r.sums,l=0;for(;c<=n;)n-=c,l+=1;for(;c<=t;)t-=c,--l;for(;n<0;)n+=c,--l;for(;t<0;)t+=c,l+=1;u=r[n+1].x-r[t].x+l*r[c].x,o=r[n+1].y-r[t].y+l*r[c].y,x=r[n+1].x2-r[t].x2+l*r[c].x2,y=r[n+1].xy-r[t].xy+l*r[c].xy,r=r[n+1].y2-r[t].y2+l*r[c].y2,i=n+1-t+l*c,e.x=u/i,e.y=o/i,e=(y-u*o/i)/i,u=((y=(x-u*u/i)/i)+(x=(r-o*o/i)/i)+S.sqrt((y-x)*(y-x)+4*e*e))/2,y-=u,x-=u,S.abs(y)>=S.abs(x)?0!==(f=G(y,e))&&(a.x=-e/f,a.y=y/f):0!==(f=G(x,e))&&(a.x=-x/f,a.y=e/f);0===f&&(a.x=a.y=0)}(r,w[n],e,b[n],O[n]);for(n=0;n<d;++n)if(F[n]=new E,0===(t=O[n].x*O[n].x+O[n].y*O[n].y))for(e=0;e<3;++e)for(a=0;a<3;++a)F[n].data[3*e+a]=0;else for(R[0]=O[n].y,R[1]=-O[n].x,R[2]=-R[1]*b[n].y-R[0]*b[n].x,o=0;o<3;++o)for(a=0;a<3;++a)F[n].data[3*o+a]=R[o]*R[a]/t;for(n=0;n<d;++n){for(i=new E,y=new U,C.x=g[w[n]].x-m,C.y=g[w[n]].y-A,e=X(n-1,d),o=0;o<3;++o)for(a=0;a<3;++a)i.data[3*o+a]=F[e].at(o,a)+F[n].at(o,a);for(;;){if(0!=(f=i.at(0,0)*i.at(1,1)-i.at(0,1)*i.at(1,0))){y.x=(-i.at(0,2)*i.at(1,1)+i.at(1,2)*i.at(0,1))/f,y.y=(i.at(0,2)*i.at(1,0)-i.at(1,2)*i.at(0,0))/f;break}for(i.at(0,0)>i.at(1,1)?(R[0]=-i.at(0,1),R[1]=i.at(0,0)):i.at(1,1)?(R[0]=-i.at(1,1),R[1]=i.at(1,0)):(R[0]=1,R[1]=0),t=R[0]*R[0]+R[1]*R[1],R[2]=-R[1]*C.y-R[0]*C.x,o=0;o<3;++o)for(a=0;a<3;++a)i.data[3*o+a]+=R[o]*R[a]/t}if(x=S.abs(y.x-C.x),u=S.abs(y.y-C.y),x<=.5&&u<=.5)r.curve.vertex[n]=new U(y.x+m,y.y+A);else{if(c=Y(i,C),s=C.x,p=C.y,0!==i.at(0,0))for(h=0;h<2;++h)y.y=C.y-.5+h,y.x=-(i.at(0,1)*y.y+i.at(0,2))/i.at(0,0),x=S.abs(y.x-C.x),l=Y(i,y),x<=.5&&l<c&&(c=l,s=y.x,p=y.y);if(0!==i.at(1,1))for(h=0;h<2;++h)y.x=C.x-.5+h,y.y=-(i.at(1,0)*y.x+i.at(1,2))/i.at(1,1),u=S.abs(y.y-C.y),l=Y(i,y),u<=.5&&l<c&&(c=l,s=y.x,p=y.y);for(o=0;o<2;++o)for(a=0;a<2;++a)y.x=C.x-.5+o,y.y=C.y-.5+a,(l=Y(i,y))<c&&(c=l,s=y.x,p=y.y);r.curve.vertex[n]=new U(s+m,p+A)}}}(x),"-"===x.sign&&!function(r){var t,n,e,r=r.curve,a=r.n,o=r.vertex;for(t=0,n=a-1;t<n;++t,--n)e=o[t],o[t]=o[n],o[n]=e}(x),!function(r,t){var n,e,a,o,i,y,x=r.curve.n,u=r.curve;for(n=0;n<x;++n)e=X(n+1,x),i=X(n+2,x),y=j(.5,u.vertex[i],u.vertex[e]),0!==(o=function(r,t){var n=function(r,t){return new U(-q(t.y-r.y),q(t.x-r.x))}(r,t);return n.y*(t.x-r.x)-n.x*(t.y-r.y)}(u.vertex[n],u.vertex[i]))?(o=M(u.vertex[n],u.vertex[e],u.vertex[i])/o,o=S.abs(o),a=1<o?1-1/o:0,a/=.75):a=4/3,(u.alpha0[e]=a)>=t.alphamax?(u.tag[e]="CORNER",u.c[3*e+1]=u.vertex[e]):(a<.55?a=.55:1<a&&(a=1),o=j(.5+.5*a,u.vertex[n],u.vertex[e]),i=j(.5+.5*a,u.vertex[i],u.vertex[e]),u.tag[e]="CURVETO",u.c[3*e+0]=o,u.c[3*e+1]=i),u.c[3*e+2]=y,u.alpha[e]=a,u.beta[e]=.5;u.alphacurve=1}(x,o),o.optcurve&&!function(r,t){var n,e,a,o,i,y,x,u,f,c,l=r.curve,s=l.n,p=l.vertex,h=new Array(s+1),d=new Array(s+1),w=new Array(s+1),v=new Array(s+1),g=new R,m=new Array(s),A=new Array(s+1);for(e=0;e<s;++e)"CURVETO"===l.tag[e]?m[e]=q(M(p[X(e-1,s)],p[e],p[X(e+1,s)])):m[e]=0;for(A[y=0]=0,o=l.vertex[0],e=0;e<s;++e)i=X(e+1,s),"CURVETO"===l.tag[i]&&(x=l.alpha[i],y=(y+=.3*x*(4-x)*M(l.c[3*e+2],p[i],l.c[3*i+2])/2)+M(o,l.c[3*e+2],l.c[3*i+2])/2),A[e+1]=y;for(h[0]=-1,d[0]=0,w[0]=0,a=1;a<=s;++a)for(h[a]=a-1,d[a]=d[a-1],w[a]=w[a-1]+1,e=a-2;0<=e&&!function(r,t,n,e,a,o,i){var y,x,u,f,c,l,s,p,h,d,w,v,g,m,A,b,O,F=r.curve.n,R=r.curve,C=R.vertex;if(t===n)return 1;if(c=X((y=t)+1,F),x=X(y+1,F),0===(f=o[x]))return 1;for(l=L(C[t],C[c]),y=x;y!=n;y=x){if(x=X(y+1,F),u=X(y+2,F),o[x]!==f)return 1;if(q(P(C[t],C[c],C[x],C[u]))!==f)return 1;if(function(r,t,n,e){var a;return a=t.x-r.x,t=t.y-r.y,r=e.x-n.x,e=e.y-n.y,a*r+t*e}(C[t],C[c],C[x],C[u])<l*L(C[x],C[u])*-.999847695156)return 1}h=R.c[3*X(t,F)+2].copy(),d=C[X(t+1,F)].copy(),w=C[X(n,F)].copy(),v=R.c[3*X(n,F)+2].copy(),r=i[n]-i[t],r-=M(C[0],R.c[3*t+2],R.c[3*n+2])/2,n<=t&&(r+=i[F]);if(i=M(h,d,w),m=M(h,d,v),A=M(h,w,v),b=i+A-m,m===i)return 1;if(i=m/(m-i),0==(m=m*(O=A/(A-b))/2))return 1;for(A=r/m,b=2-S.sqrt(4-A/.3),e.c[0]=j(O*b,h,d),e.c[1]=j(i*b,v,w),e.alpha=b,e.t=O,e.s=i,d=e.c[0].copy(),w=e.c[1].copy(),e.pen=0,y=X(t+1,F);y!=n;y=x){if(x=X(y+1,F),(O=H(h,d,w,v,C[y],C[x]))<-.5)return 1;if(g=D(O,h,d,w,v),0===(l=L(C[y],C[x])))return 1;if(s=M(C[y],C[x],g)/l,S.abs(s)>a)return 1;if($(C[y],C[x],g)<0||$(C[x],C[y],g)<0)return 1;e.pen+=s*s}for(y=t;y!=n;y=x){if(x=X(y+1,F),(O=H(h,d,w,v,R.c[3*y+2],R.c[3*x+2]))<-.5)return 1;if(g=D(O,h,d,w,v),0===(l=L(R.c[3*y+2],R.c[3*x+2])))return 1;if(s=M(R.c[3*y+2],R.c[3*x+2],g)/l,p=M(R.c[3*y+2],R.c[3*x+2],C[x])/l,(p*=.75*R.alpha[x])<0&&(s=-s,p=-p),s<p-a)return 1;s<p&&(e.pen+=(s-p)*(s-p))}return 0}(r,e,X(a,s),g,t.opttolerance,m,A);--e)(w[a]>w[e]+1||w[a]==w[e]+1&&d[a]>d[e]+g.pen)&&(h[a]=e,d[a]=d[e]+g.pen,w[a]=w[e]+1,v[a]=g,g=new R);for(n=w[s],u=new z(n),f=new Array(n),c=new Array(n),a=s,e=n-1;0<=e;--e)h[a]===a-1?(u.tag[e]=l.tag[X(a,s)],u.c[3*e+0]=l.c[3*X(a,s)+0],u.c[3*e+1]=l.c[3*X(a,s)+1],u.c[3*e+2]=l.c[3*X(a,s)+2],u.vertex[e]=l.vertex[X(a,s)],u.alpha[e]=l.alpha[X(a,s)],u.alpha0[e]=l.alpha0[X(a,s)],u.beta[e]=l.beta[X(a,s)],f[e]=c[e]=1):(u.tag[e]="CURVETO",u.c[3*e+0]=v[a].c[0],u.c[3*e+1]=v[a].c[1],u.c[3*e+2]=l.c[3*X(a,s)+2],u.vertex[e]=j(v[a].s,l.c[3*X(a,s)+2],p[X(a,s)]),u.alpha[e]=v[a].alpha,u.alpha0[e]=v[a].alpha,f[e]=v[a].s,c[e]=v[a].t),a=h[a];for(e=0;e<n;++e)i=X(e+1,n),u.beta[e]=f[e]/(f[e]+c[i]);u.alphacurve=1,r.curve=u}(x,o)}var u,f,c,l,s,p=r,h=1,r=e.color||"#000",d=e.opacity||"1.0",w=e.outline,e=!e.partial,t=t*h,n=n*h,v=p.length,g=e?'<svg version="1.1" xmlns="http://www.w3.org/2000/svg" width="'+t+'" height="'+n+'" viewBox="0 0 '+t+" "+n+'">':"";for(w?(f=r||"#000",l='stroke-opacity="'+(d||"1.0")+'"',c="none",s=""):(c=r||"#000",l='fill-opacity="'+(d||"1.0")+'"',s=' fill-rule="evenodd"',f="none"),u=0;u<v;++u)g+='<path d="'+function(r,t){var n,e=r.n,a="M"+(r.c[3*(e-1)+2].x*t).toFixed(3)+" "+(r.c[3*(e-1)+2].y*t).toFixed(3)+" ";for(n=0;n<e;++n)"CURVETO"===r.tag[n]?a+=function(r,t,n){return"C "+(r.c[3*t+0].x*n).toFixed(3)+" "+(r.c[3*t+0].y*n).toFixed(3)+","+(r.c[3*t+1].x*n).toFixed(3)+" "+(r.c[3*t+1].y*n).toFixed(3)+","+(r.c[3*t+2].x*n).toFixed(3)+" "+(r.c[3*t+2].y*n).toFixed(3)+" "}(r,n,t):"CORNER"===r.tag[n]&&(a+=function(r,t,n){return"L "+(r.c[3*t+1].x*n).toFixed(3)+" "+(r.c[3*t+1].y*n).toFixed(3)+" "+(r.c[3*t+2].x*n).toFixed(3)+" "+(r.c[3*t+2].y*n).toFixed(3)+" "}(r,n,t));return a}(p[u].curve,h)+'" stroke="'+f+'" fill="'+c+'"'+s+l+" />";return e&&(g+="</svg>"),g},U[e]={constructor:U,x:0,y:0,copy:function(){return new U(this.x,this.y)}},b[e]={constructor:b,width:0,height:0,size:0,data:null,at:function(r,t){return r instanceof U?(t=r.y,r=r.x):1===arguments.length&&(t=S.floor(r/this.width),r%=this.width),0<=r&&r<this.width&&0<=t&&t<this.height&&0<this.data[this.width*t+r]},index:function(r){return new U(r%this.width,S.floor(r/this.width))},toIndex:function(r,t){return r instanceof U&&(t=r.y,r=r.x),this.width*t+r},flip:function(r,t){r instanceof U?(t=r.y,r=r.x):1===arguments.length&&(t=S.floor(r/this.width),r%=this.width),this.data[this.width*t+r]=this.at(r,t)?0:1},copy:function(){for(var r=new b(this.width,this.height),t=0,n=this.size;t<n;++t)r.data[t]=this.data[t];return r}},O[e]={constructor:O,area:0,len:0,sign:"",lon:null,curve:null,pt:null,minX:1e6,minY:1e6,maxX:-1,maxY:-1},z[e]={constructor:z,n:0,tag:null,c:null,alphaCurve:0,vertex:null,alpha:null,alpha0:null,beta:null},E[e]={constructor:E,data:null,at:function(r,t){return this.data[3*r+t]}},F[e]={constructor:F,x:0,y:0,xy:0,x2:0,y2:0},R[e]={constructor:R,pen:0,c:null,t:0,s:0,alpha:0};var t,e,S,i,m,N=t;function A(r,t){for(var n in t)Object[e].hasOwnProperty.call(t,n)&&!Object[e].hasOwnProperty.call(r,n)&&(r[n]=t[n]);return r}function U(r,t){this.x=r||0,this.y=t||0}function b(r,t,n){var e=this;if(e.width=r,e.height=t,e.size=r*t,e.data=n||new i(e.size),n)for(var a=0,o=e.size;a<o;++a)e.data[a]=0<e.data[a]?1:0}function O(){var r=this;r.area=0,r.len=0,r.curve={},r.pt=[],r.minX=1e6,r.minY=1e6,r.maxX=-1,r.maxY=-1}function z(r){var t=this;t.n=r,t.tag=new Array(r),t.c=new Array(3*r),t.alphaCurve=0,t.vertex=new Array(r),t.alpha=new Array(r),t.alpha0=new Array(r),t.beta=new Array(r)}function E(){this.data=[0,0,0,0,0,0,0,0,0]}function F(r,t,n,e,a){var o=this;o.x=r,o.y=t,o.xy=n,o.x2=e,o.y2=a}function R(){var r=this;r.pen=0,r.c=[new U,new U],r.t=0,r.s=0,r.alpha=0}function X(r,t){return t<=r?r%t:0<=r?r:t-1-(-1-r)%t}function C(r,t){return r.x*t.y-r.y*t.x}function k(r,t,n){return r<=n?r<=t&&t<n:r<=t||t<n}function q(r){return 0<r?1:r<0?-1:0}function Y(r,t){for(var n,e=[t.x,t.y,1],a=0,o=0;o<3;++o)for(n=0;n<3;++n)a+=e[o]*r.at(o,n)*e[n];return a}function j(r,t,n){return new U(t.x+r*(n.x-t.x),t.y+r*(n.y-t.y))}function M(r,t,n){var e=t.x-r.x,t=t.y-r.y,a=n.x-r.x;return e*(n.y-r.y)-a*t}function P(r,t,n,e){var a=t.x-r.x,t=t.y-r.y,r=e.x-n.x;return a*(e.y-n.y)-r*t}function $(r,t,n){var e=t.x-r.x,t=t.y-r.y;return e*(n.x-r.x)+t*(n.y-r.y)}function G(r,t){r=S.abs(r),t=S.abs(t);var n=S.max(r,t);return 0===n?0:n*S.sqrt((r/=n)*r+(t/=n)*t)}function L(r,t){return G(r.x-t.x,r.y-t.y)}function D(r,t,n,e,a){var o=1-r,i=r*r,y=o*o,x=y*o,u=i*r,y=3*y*r,r=3*i*o;return new U(x*t.x+y*n.x+r*e.x+u*a.x,x*t.y+y*n.y+r*e.y+u*a.y)}function H(r,t,n,e,a,o){var r=P(r,t,a,o),t=P(t,n,a,o),n=r-2*t+P(n,e,a,o),e=-2*r+2*t,a=e*e-4*n*r;return 0===n||a<0?-1:(t=(-e-(o=S.sqrt(a)))/(2*n),0<=(r=(-e+o)/(2*n))&&r<=1?r:0<=t&&t<=1?t:-1)}return r.potrace=N,r});

diff --git a/build/img2svg.js b/build/img2svg.js
@@ -2,7 +2,7 @@
 *
 *   img2svg.js
 *   @version: 1.0.0
-*   @built on 2023-09-01 08:33:59
+*   @built on 2023-09-01 09:31:47
 *
 *   Vectorize image data based on potrace algorithm with color
 *   https://github.com/foo123/img2svg.js
@@ -11,7 +11,7 @@
 *
 *   img2svg.js
 *   @version: 1.0.0
-*   @built on 2023-09-01 08:33:59
+*   @built on 2023-09-01 09:31:47
 *
 *   Vectorize image data based on potrace algorithm with color
 *   https://github.com/foo123/img2svg.js
@@ -41,19 +41,49 @@ function img2svg(imageData, options)
         depthR = clamp(null == options.depthR ? depth : options.depthR, 1, 256),
         depthG = clamp(null == options.depthG ? depth : options.depthG, 1, 256),
         depthB = clamp(null == options.depthB ? depth : options.depthB, 1, 256),
-        depthHue = clamp(null == options.depthHue ? 12 : options.depthHue, 1, 360),
-        w = imageData.width, h = imageData.height,
-        img = imageData.data, size = w*h, l = img.length,
+        //depthHue = clamp(null == options.depthHue ? 12 : options.depthHue, 1, 360),
+        w = imageData.width, h = imageData.height, img = imageData.data,
+        size = w*h, l = img.length, colorMap, rgba, pos,
         b, g, r, h, q, qR, qG, qB, qR2, qG2, qB2, hR, hG, hB,
-        bq, gq, rq, hq, ir, ig, ib, ih, i, j, area, cnt, imgq, svg = '';
-    qR = stdMath.floor(256 / depthR);
-    qG = stdMath.floor(256 / depthG);
-    qB = stdMath.floor(256 / depthB);
-    qR2 = stdMath.floor(qR/2);
-    qG2 = stdMath.floor(qG/2);
-    qB2 = stdMath.floor(qB/2);
-    if (options.grayscale)
+        bq, gq, rq, hq, ir, ig, ib, ia, ih, i, j, k,
+        area, cnt, imgq, svg = '';
+    if (256 === depth)
     {
+        colorMap = {};
+        for (i=0,j=0; i<l; i+=4,++j)
+        {
+            if (0 < img[i+3])
+            {
+                ir = img[i  ];
+                ig = img[i+1];
+                ib = img[i+2];
+                ia = img[i+3];
+                rgba = String(ir)+','+String(ig)+','+String(ib)+','+String(ia);
+                if (!colorMap[rgba]) colorMap[rgba] = [j];
+                else colorMap[rgba].push(j);
+            }
+        }
+        for (rgba in colorMap)
+        {
+            if (!Object.prototype.hasOwnProperty.call(colorMap, rgba)) continue;
+            pos = colorMap[rgba];
+            if (0 < pos.length)
+            {
+                imgq = new IMG(size);
+                for (i=0,k=pos.length; i<k; ++i) imgq[pos[i]] = 255;
+                options.color = 'rgb('+rgba.split(',').slice(0, 3).join(',')+')';
+                options.opacity = String(((+(rgba.split(',').pop()))/255).toFixed(2));
+                options.partial = true;
+                svg += potrace.process(imgq, w, h, options);
+                imgq = null;
+            }
+        }
+        colorMap = null;
+    }
+    else if (options.grayscale)
+    {
+        qG = stdMath.floor(256 / depthG);
+        qG2 = stdMath.floor(qG/2);
         for (g=0,gq=0; g<depthG; ++g,gq+=qG)
         {
             imgq = new IMG(size);
@@ -148,6 +178,12 @@ function img2svg(imageData, options)
     }*/
     else
     {
+        qR = stdMath.floor(256 / depthR);
+        qG = stdMath.floor(256 / depthG);
+        qB = stdMath.floor(256 / depthB);
+        qR2 = stdMath.floor(qR/2);
+        qG2 = stdMath.floor(qG/2);
+        qB2 = stdMath.floor(qB/2);
         for (b=0,bq=0; b<depthB; ++b,bq+=qB)
         {
             for (g=0,gq=0; g<depthG; ++g,gq+=qG)
@@ -260,7 +296,7 @@ potrace.process = function(imgBW, width, height, options) {
     var pathlist = bm_to_pathlist(bm, options);
     bm = null;
     process_path(pathlist, options);
-    return svg(width, height, pathlist, 1.0, options.color || '#000', options.outline, !options.partial);
+    return svg(width, height, pathlist, 1.0, options.color || '#000', options.opacity || '1.0', options.outline, !options.partial);
 };
 
 
@@ -294,27 +330,29 @@ function process_path(pathlist, params)
         if (params.optcurve) opticurve(path, params);
     }
 }
-function svg(width, height, pathlist, scale, color, outline, full)
+function svg(width, height, pathlist, scale, color, color_opacity, outline, full)
 {
     var w = width * scale, h = height * scale,
-        len = pathlist.length, i, strokec, fillc, fillrule;
+        len = pathlist.length, i, strokec, fillc, opacity, fillrule;
 
     var svg_code = full ? ('<svg version="1.1" xmlns="http://www.w3.org/2000/svg" width="' + w + '" height="' + h + '" viewBox="0 0 '+w+' '+h+'">') : '';
     if (outline)
     {
         strokec = color || "#000";
+        opacity = 'stroke-opacity="' + (color_opacity || '1.0') + '"';
         fillc = "none";
         fillrule = '';
     }
     else
     {
-        strokec = "none";
         fillc = color || "#000";
+        opacity = 'fill-opacity="' + (color_opacity || '1.0') + '"';
         fillrule = ' fill-rule="evenodd"';
+        strokec = "none";
     }
     for (i=0; i<len; ++i)
     {
-        svg_code += '<path d="' + svg_path(pathlist[i].curve, scale) + '" stroke="' + strokec + '" fill="' + fillc + '"' + fillrule + '/>';
+        svg_code += '<path d="' + svg_path(pathlist[i].curve, scale) + '" stroke="' + strokec + '" fill="' + fillc + '"' + fillrule +  opacity +  ' />';
     }
     if (full) svg_code += '</svg>';
     return svg_code;

diff --git a/src/img2svg.js b/src/img2svg.js
@@ -9,19 +9,49 @@ function img2svg(imageData, options)
         depthR = clamp(null == options.depthR ? depth : options.depthR, 1, 256),
         depthG = clamp(null == options.depthG ? depth : options.depthG, 1, 256),
         depthB = clamp(null == options.depthB ? depth : options.depthB, 1, 256),
-        depthHue = clamp(null == options.depthHue ? 12 : options.depthHue, 1, 360),
-        w = imageData.width, h = imageData.height,
-        img = imageData.data, size = w*h, l = img.length,
+        //depthHue = clamp(null == options.depthHue ? 12 : options.depthHue, 1, 360),
+        w = imageData.width, h = imageData.height, img = imageData.data,
+        size = w*h, l = img.length, colorMap, rgba, pos,
         b, g, r, h, q, qR, qG, qB, qR2, qG2, qB2, hR, hG, hB,
-        bq, gq, rq, hq, ir, ig, ib, ih, i, j, area, cnt, imgq, svg = '';
-    qR = stdMath.floor(256 / depthR);
-    qG = stdMath.floor(256 / depthG);
-    qB = stdMath.floor(256 / depthB);
-    qR2 = stdMath.floor(qR/2);
-    qG2 = stdMath.floor(qG/2);
-    qB2 = stdMath.floor(qB/2);
-    if (options.grayscale)
+        bq, gq, rq, hq, ir, ig, ib, ia, ih, i, j, k,
+        area, cnt, imgq, svg = '';
+    if (256 === depth)
     {
+        colorMap = {};
+        for (i=0,j=0; i<l; i+=4,++j)
+        {
+            if (0 < img[i+3])
+            {
+                ir = img[i  ];
+                ig = img[i+1];
+                ib = img[i+2];
+                ia = img[i+3];
+                rgba = String(ir)+','+String(ig)+','+String(ib)+','+String(ia);
+                if (!colorMap[rgba]) colorMap[rgba] = [j];
+                else colorMap[rgba].push(j);
+            }
+        }
+        for (rgba in colorMap)
+        {
+            if (!Object.prototype.hasOwnProperty.call(colorMap, rgba)) continue;
+            pos = colorMap[rgba];
+            if (0 < pos.length)
+            {
+                imgq = new IMG(size);
+                for (i=0,k=pos.length; i<k; ++i) imgq[pos[i]] = 255;
+                options.color = 'rgb('+rgba.split(',').slice(0, 3).join(',')+')';
+                options.opacity = String(((+(rgba.split(',').pop()))/255).toFixed(2));
+                options.partial = true;
+                svg += potrace.process(imgq, w, h, options);
+                imgq = null;
+            }
+        }
+        colorMap = null;
+    }
+    else if (options.grayscale)
+    {
+        qG = stdMath.floor(256 / depthG);
+        qG2 = stdMath.floor(qG/2);
         for (g=0,gq=0; g<depthG; ++g,gq+=qG)
         {
             imgq = new IMG(size);
@@ -116,6 +146,12 @@ function img2svg(imageData, options)
     }*/
     else
     {
+        qR = stdMath.floor(256 / depthR);
+        qG = stdMath.floor(256 / depthG);
+        qB = stdMath.floor(256 / depthB);
+        qR2 = stdMath.floor(qR/2);
+        qG2 = stdMath.floor(qG/2);
+        qB2 = stdMath.floor(qB/2);
         for (b=0,bq=0; b<depthB; ++b,bq+=qB)
         {
             for (g=0,gq=0; g<depthG; ++g,gq+=qG)

diff --git a/src/potrace.js b/src/potrace.js
@@ -23,7 +23,7 @@ potrace.process = function(imgBW, width, height, options) {
     var pathlist = bm_to_pathlist(bm, options);
     bm = null;
     process_path(pathlist, options);
-    return svg(width, height, pathlist, 1.0, options.color || '#000', options.outline, !options.partial);
+    return svg(width, height, pathlist, 1.0, options.color || '#000', options.opacity || '1.0', options.outline, !options.partial);
 };
 
 
@@ -57,27 +57,29 @@ function process_path(pathlist, params)
         if (params.optcurve) opticurve(path, params);
     }
 }
-function svg(width, height, pathlist, scale, color, outline, full)
+function svg(width, height, pathlist, scale, color, color_opacity, outline, full)
 {
     var w = width * scale, h = height * scale,
-        len = pathlist.length, i, strokec, fillc, fillrule;
+        len = pathlist.length, i, strokec, fillc, opacity, fillrule;
 
     var svg_code = full ? ('<svg version="1.1" xmlns="http://www.w3.org/2000/svg" width="' + w + '" height="' + h + '" viewBox="0 0 '+w+' '+h+'">') : '';
     if (outline)
     {
         strokec = color || "#000";
+        opacity = 'stroke-opacity="' + (color_opacity || '1.0') + '"';
         fillc = "none";
         fillrule = '';
     }
     else
     {
-        strokec = "none";
         fillc = color || "#000";
+        opacity = 'fill-opacity="' + (color_opacity || '1.0') + '"';
         fillrule = ' fill-rule="evenodd"';
+        strokec = "none";
     }
     for (i=0; i<len; ++i)
     {
-        svg_code += '<path d="' + svg_path(pathlist[i].curve, scale) + '" stroke="' + strokec + '" fill="' + fillc + '"' + fillrule + '/>';
+        svg_code += '<path d="' + svg_path(pathlist[i].curve, scale) + '" stroke="' + strokec + '" fill="' + fillc + '"' + fillrule +  opacity +  ' />';
     }
     if (full) svg_code += '</svg>';
     return svg_code;

diff --git a/test/test.html b/test/test.html
@@ -22,7 +22,7 @@ img.onload = () => {
     canvas.height = img.height;
     canvas.getContext('2d').drawImage(img, 0, 0);
     const imgData = canvas.getContext('2d').getImageData(0, 0, img.width, img.height);
-    const svg = img2svg(imgData, {depth:2});
+    const svg = img2svg(imgData, {depth:5,turdsize:0});
     document.body.appendChild(img);
     document.body.appendChild(el(svg));
 };

diff --git a/test/test.js b/test/test.js
@@ -7,6 +7,6 @@ img.onload = () => {
     const canvas = new CanvasLite(img.width, img.height);
     canvas.getContext('2d').drawImage(img, 0, 0);
     const imgData = canvas.getContext('2d').getImageData(0, 0, img.width, img.height);
-    console.log(img2svg(imgData, {depth:2}));
+    console.log(img2svg(imgData, {depth:5,turdsize:0}));
 };
 img.src = __dirname + '/test.jpeg';

diff --git a/README.md b/README.md
@@ -14,7 +14,7 @@ img.onload = () => {
     const canvas = new CanvasLite(img.width, img.height);
     canvas.getContext('2d').drawImage(img, 0, 0);
     const imgData = canvas.getContext('2d').getImageData(0, 0, img.width, img.height);
-    console.log(img2svg(imgData, {depth:2}));
+    console.log(img2svg(imgData, {depth:5,turdsize:0}));
 };
 img.src = __dirname + '/test.jpeg';
 ```
@@ -34,7 +34,7 @@ img.onload = () => {
     canvas.height = img.height;
     canvas.getContext('2d').drawImage(img, 0, 0);
     const imgData = canvas.getContext('2d').getImageData(0, 0, img.width, img.height);
-    const svg = img2svg(imgData, {depth:2});
+    const svg = img2svg(imgData, {depth:5,turdsize:0});
     document.body.appendChild(img);
     document.body.appendChild(el(svg));
 };
